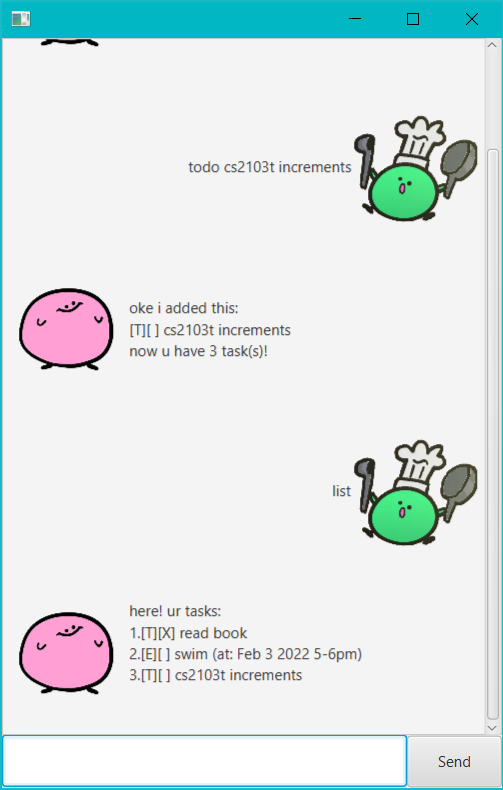
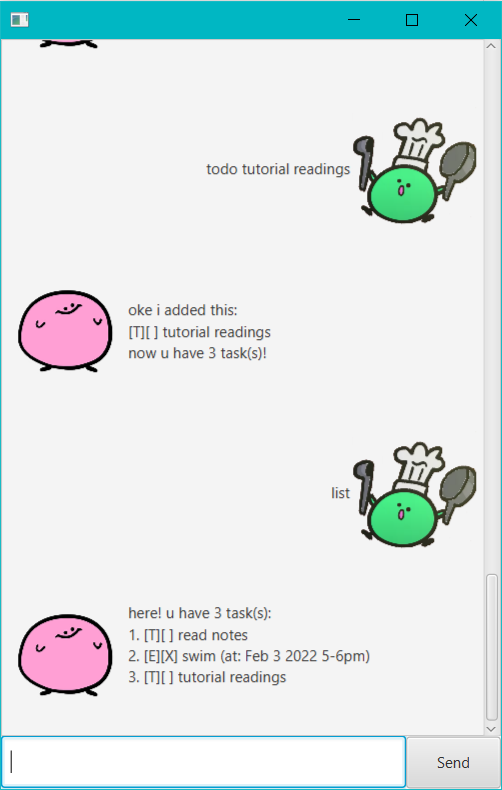
Fix small formatting details and update UI image

diff --git a/src/main/java/duke/Ui.java b/src/main/java/duke/Ui.java
@@ -50,10 +50,11 @@ public class Ui {
      * @return String containing all the tasks.
      */
     public String printTasks(TaskList taskList) {
-        if (taskList.getSize() == 0) {
+        int size = taskList.getSize();
+        if (size == 0) {
             return "u currently have no tasks!";
         }
-        return "here! ur tasks:\n" + taskList + "\n";
+        return "here! u have " + size + " task(s):\n" + taskList + "\n";
     }
 
     /**

diff --git a/src/main/java/task/TaskList.java b/src/main/java/task/TaskList.java
@@ -136,7 +136,7 @@ public class TaskList {
         String str = "";
         for(int i = 1; i <= this.getSize(); i++) {
             Task task = this.getTask(i - 1);
-            str += i + "." + task.toString() + "\n";
+            str += i + ". " + task.toString() + "\n";
         }
         return str;
     }
